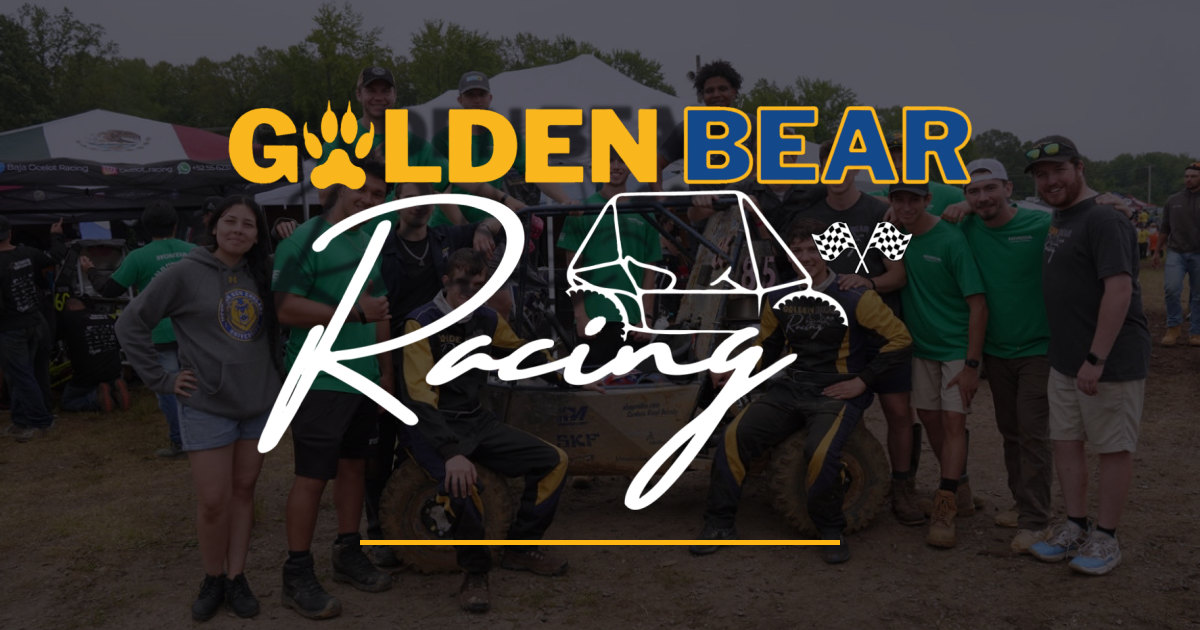
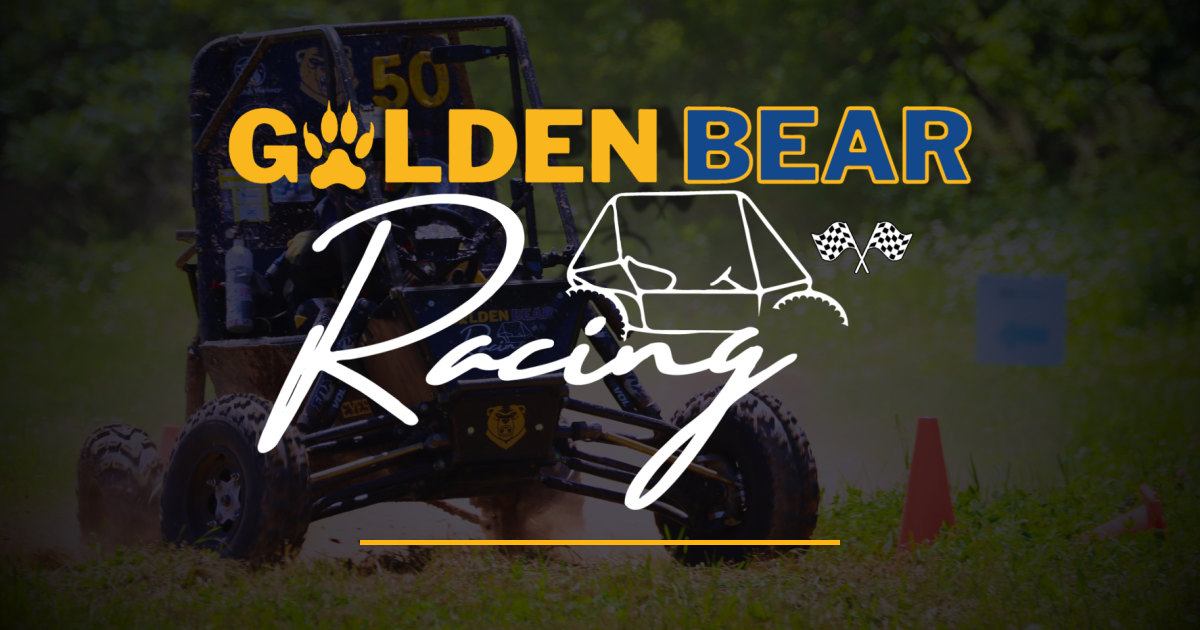
Use the action shot as the hero background
Replaces the team group photo with car 50 on course. Delivered as a
26 MB 4400px PNG, which is the wrong container for a photograph -
re-encoded to a 2400px JPEG at 320 KB, a 99% reduction, with no
visible loss at hero size.

The car sits on the left of the frame, so the copy moves to the right
and the scrim is flipped to darken right-to-left. Left as-is the logo
would have covered the subject. Mobile keeps the stacked layout with
a top-to-bottom scrim instead.

Note .hero is a flex container, so .wrap needed an explicit width to
span it - without that it shrink-wrapped its content and the copy
would not move.

diff --git a/index.html b/index.html
@@ -49,19 +49,21 @@
 
   <!-- ============ HERO ============ -->
   <section class="hero" id="top">
-    <div class="hero-bg" style="background-image:url('assets/img/comp-2025-maryland.jpg');"></div>
+    <div class="hero-bg" style="background-image:url('assets/img/hero-car-action.jpg');"></div>
     <div class="wrap">
-      <p class="eyebrow">Western New England University</p>
-      <h1 class="hero-logo">
-        <img src="assets/img/logo.png" alt="Golden Bear Racing" width="1100" height="606">
-      </h1>
-      <p class="hero-tagline">Designed, built, and raced by students since 2013</p>
-      <div class="hero-blurb">
-        <p>Western New England University&rsquo;s Baja SAE team, where students design, build, test, and race an off-road vehicle from the ground up. Open to all majors and experience levels, the team provides hands-on experience in engineering, manufacturing, and business.</p>
-      </div>
-      <div class="btn-row">
-        <a class="btn btn-gold" href="#gbr4">This Season: GBR4</a>
-        <a class="btn btn-outline" href="history.html">Team History</a>
+      <div class="hero-content">
+        <p class="eyebrow">Western New England University</p>
+        <h1 class="hero-logo">
+          <img src="assets/img/logo.png" alt="Golden Bear Racing" width="1100" height="606">
+        </h1>
+        <p class="hero-tagline">Designed, built, and raced by students since 2013</p>
+        <div class="hero-blurb">
+          <p>Western New England University&rsquo;s Baja SAE team, where students design, build, test, and race an off-road vehicle from the ground up. Open to all majors and experience levels, the team provides hands-on experience in engineering, manufacturing, and business.</p>
+        </div>
+        <div class="btn-row">
+          <a class="btn btn-gold" href="#gbr4">This Season: GBR4</a>
+          <a class="btn btn-outline" href="history.html">Team History</a>
+        </div>
       </div>
     </div>
     <span class="hero-scroll">&#9660; Scroll</span>

diff --git a/assets/css/style.css b/assets/css/style.css
@@ -192,29 +192,46 @@ section { padding: 84px 0; }
   inset: 0;
   z-index: -2;
   background-size: cover;
-  background-position: center 35%;
+  background-position: center 45%;
 }
+/* The car sits on the left of the hero photo, so the copy is pushed right and
+   the scrim darkens right-to-left — the reverse of a normal left-aligned hero.
+   Keeps the subject readable instead of burying it under the logo. */
 .hero::before {
   content: "";
   position: absolute;
   inset: 0;
   z-index: -1;
   background:
-    linear-gradient(100deg, rgba(4, 7, 13, 0.94) 0%, rgba(4, 7, 13, 0.82) 42%, rgba(6, 12, 24, 0.45) 100%),
-    linear-gradient(0deg, var(--bg) 0%, transparent 30%);
+    linear-gradient(260deg, rgba(4, 7, 13, 0.93) 0%, rgba(4, 7, 13, 0.78) 44%, rgba(6, 12, 24, 0.34) 100%),
+    linear-gradient(0deg, var(--bg) 0%, transparent 34%);
 }
 .hero::after {
   /* diagonal gold slash, echoing the slide */
   content: "";
   position: absolute;
   top: -10%;
-  right: 26%;
+  left: 24%;
   width: 2px;
   height: 130%;
   background: linear-gradient(180deg, transparent, var(--gold), transparent);
   transform: rotate(18deg);
-  opacity: 0.5;
+  opacity: 0.45;
   z-index: -1;
+}
+/* .hero is itself a flex container, so .wrap must be told to span the full
+   width — otherwise it shrink-wraps its content and margin-left:auto below
+   has no free space to push into. */
+.hero .wrap { display: flex; width: 100%; }
+.hero-content { margin-left: auto; max-width: 620px; }
+
+@media (max-width: 900px) {
+  .hero::before {
+    background:
+      linear-gradient(180deg, rgba(4, 7, 13, 0.72) 0%, rgba(4, 7, 13, 0.88) 60%, var(--bg) 100%);
+  }
+  .hero::after { left: 8%; }
+  .hero-content { margin-left: 0; max-width: none; }
 }
 .hero-logo { margin: 0; line-height: 0; }
 .hero-logo img {
